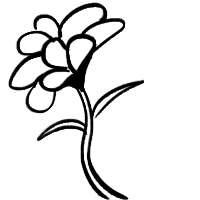
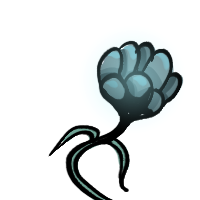
color flower

Changed region(s): [[0.03, 0.0, 0.93, 1.0]]

diff --git a/src/game/assets.ts b/src/game/assets.ts
@@ -93,6 +93,7 @@ export type AssetPath =
   | "flower_live (3).png"
   | "flower_live (4).png"
   | "flower_live (5).png"
+  | "flower_live (6).png"
   | "flower_live2 (1).png"
   | "flower_live2 (2).png"
   | "flower_live2 (3).png"
@@ -227,6 +228,7 @@ export const AssetsToLoad = {
       "flower_live (3).png",
       "flower_live (4).png",
       "flower_live (5).png",
+      "flower_live (6).png",
     ],
   },
   "flower_live2": {
